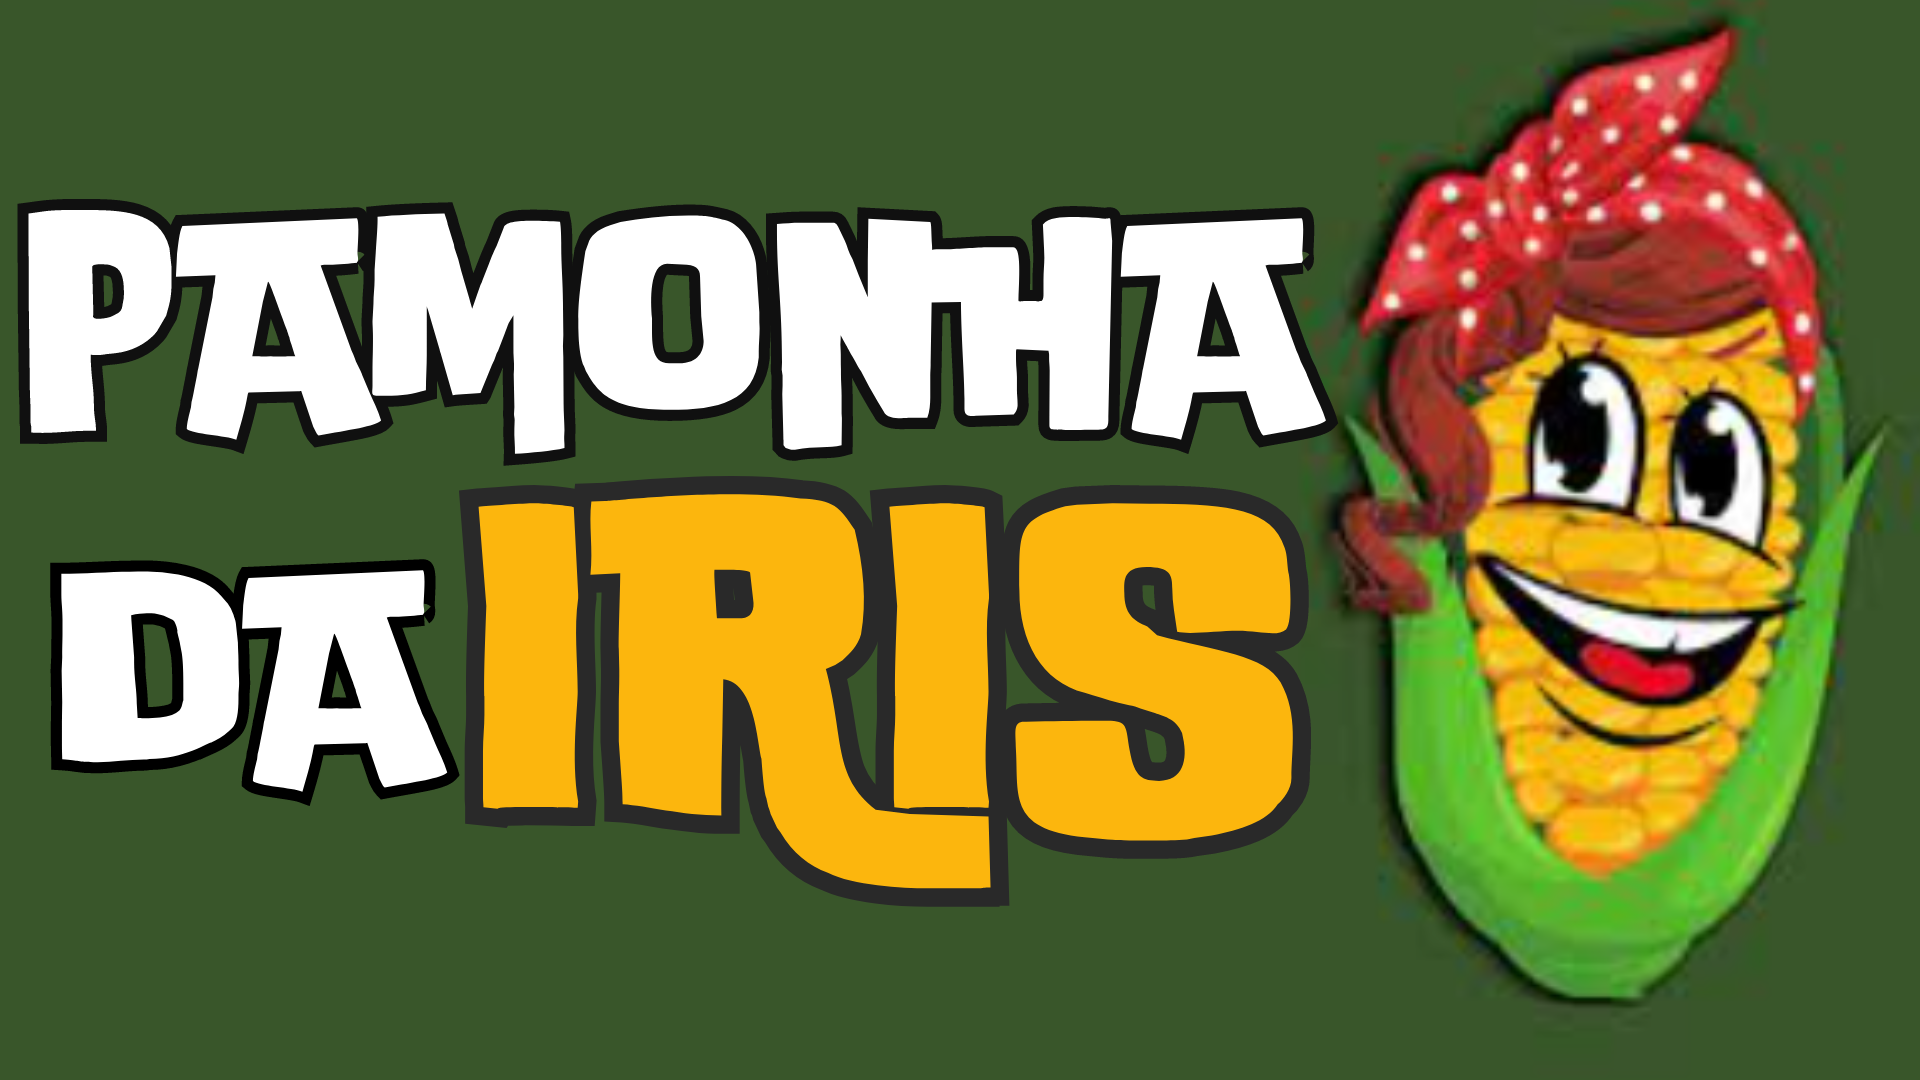
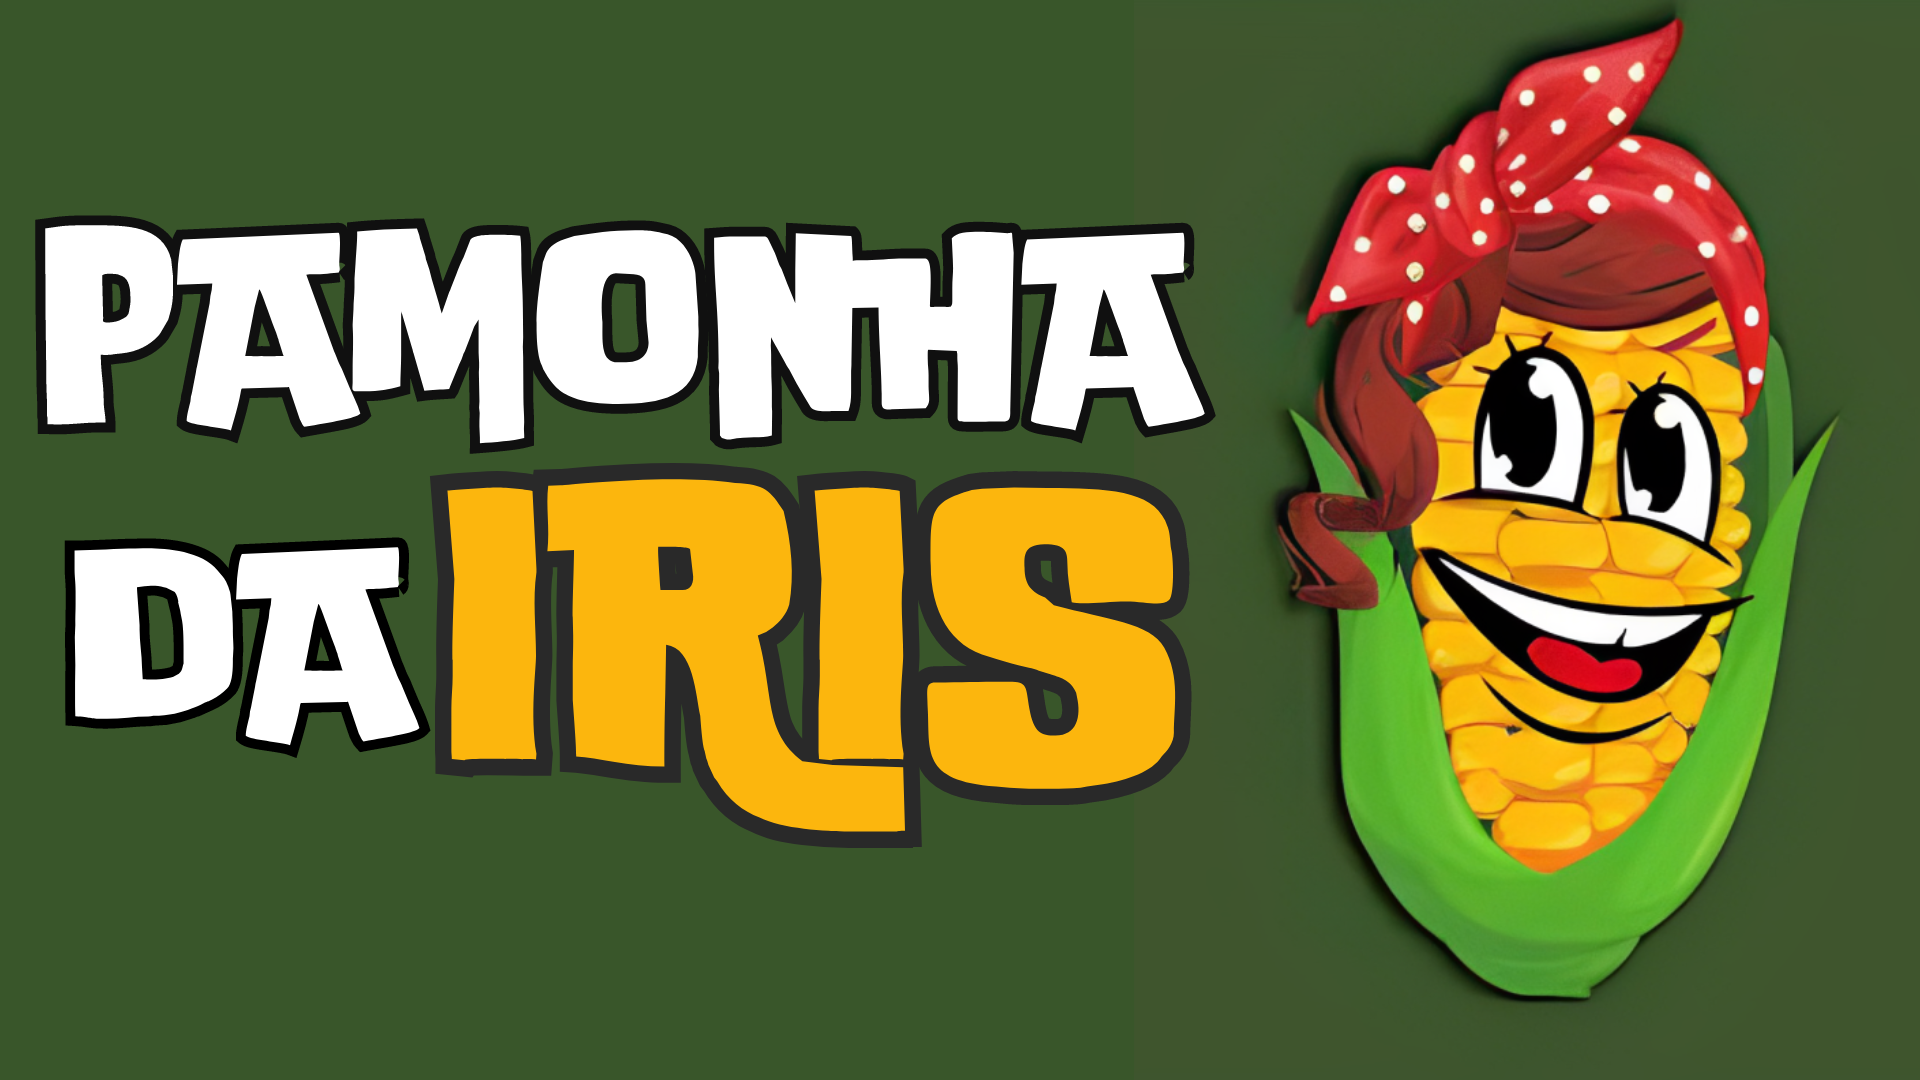
atualizacao da imagem header

diff --git a/styles/main.css b/styles/main.css
@@ -21,7 +21,6 @@ body {
     text-align: center;
     margin: 0;
     font-family: Arial, sans-serif;
-    border: 1px black solid;
 }
 
 .container__header {
@@ -30,7 +29,6 @@ body {
     justify-content: space-between;
     background-color: var(--verde-escuro);
     height: 120px;
-    border: 1px solid black;
 }
 
 .container__header__logo {
@@ -79,7 +77,7 @@ body {
     display: flex;
     align-items: center;
     justify-content: center;
-    background-color: rgb(60, 88, 45);
+    background-color: var(--verde-escuro);
     height: 120px;
     border: 1px solid black;
     flex-direction: column;

diff --git a/about.html b/about.html
@@ -11,7 +11,7 @@
     <header>
         <nav class="container__header">
             <div class="container__header__logo">
-                <img class="logo_img" src="img/titulo_loja.png">
+                <img class="logo_img" src="img/wallpaper.png">
             </div>
 
             <ul class="menu">

diff --git a/pedidos.html b/pedidos.html
@@ -11,7 +11,7 @@
     <header>
         <nav class="container__header">
             <div class="container__header__logo">
-                <img class="logo_img" src="img/titulo_loja.png">
+                <img class="logo_img" src="img/wallpaper.png">
             </div>
 
             <ul class="menu">

diff --git a/index.html b/index.html
@@ -11,7 +11,7 @@
     <header>
         <nav class="container__header">
             <div class="container__header__logo">
-                <img class="logo_img" src="img/wallpaper.png">
+                <img class="logo_img" src="img/PAMONHA.png">
             </div>
 
             <ul class="menu">

diff --git a/cardapio.html b/cardapio.html
@@ -11,7 +11,7 @@
   <header>
     <nav class="container__header">
         <div class="container__header__logo">
-            <img class="logo_img" src="img/titulo_loja.png">
+          <img class="logo_img" src="img/wallpaper.png">
         </div>
 
         <ul class="menu">
